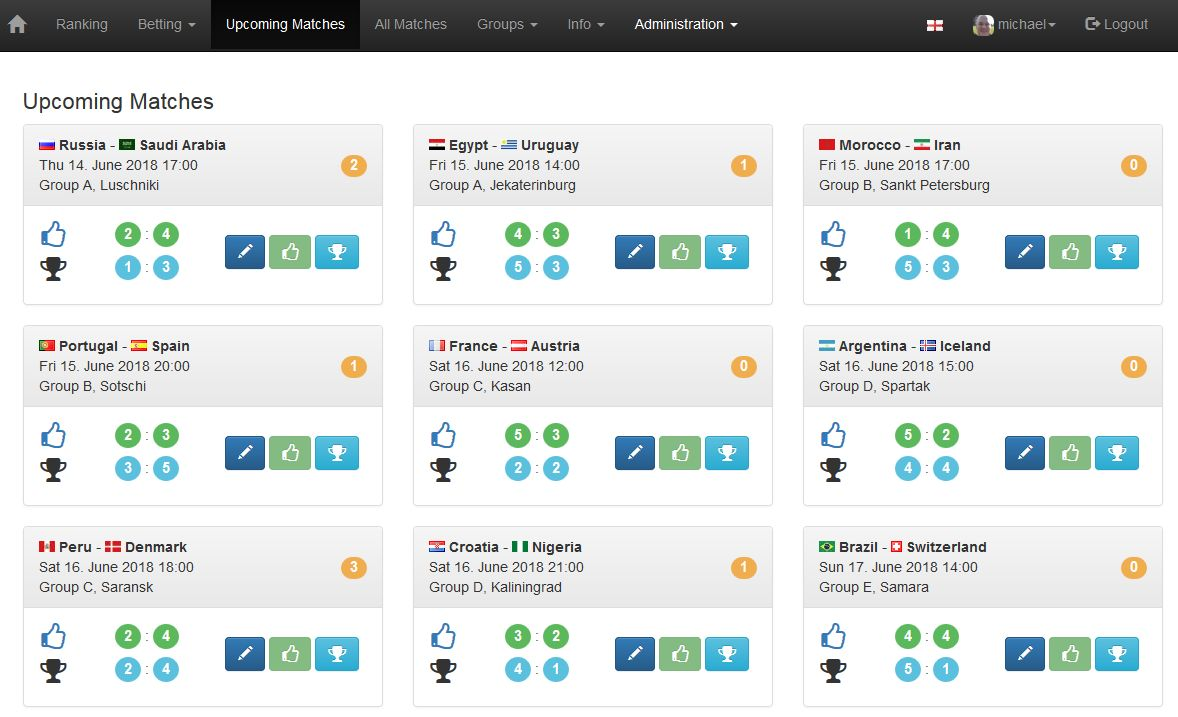
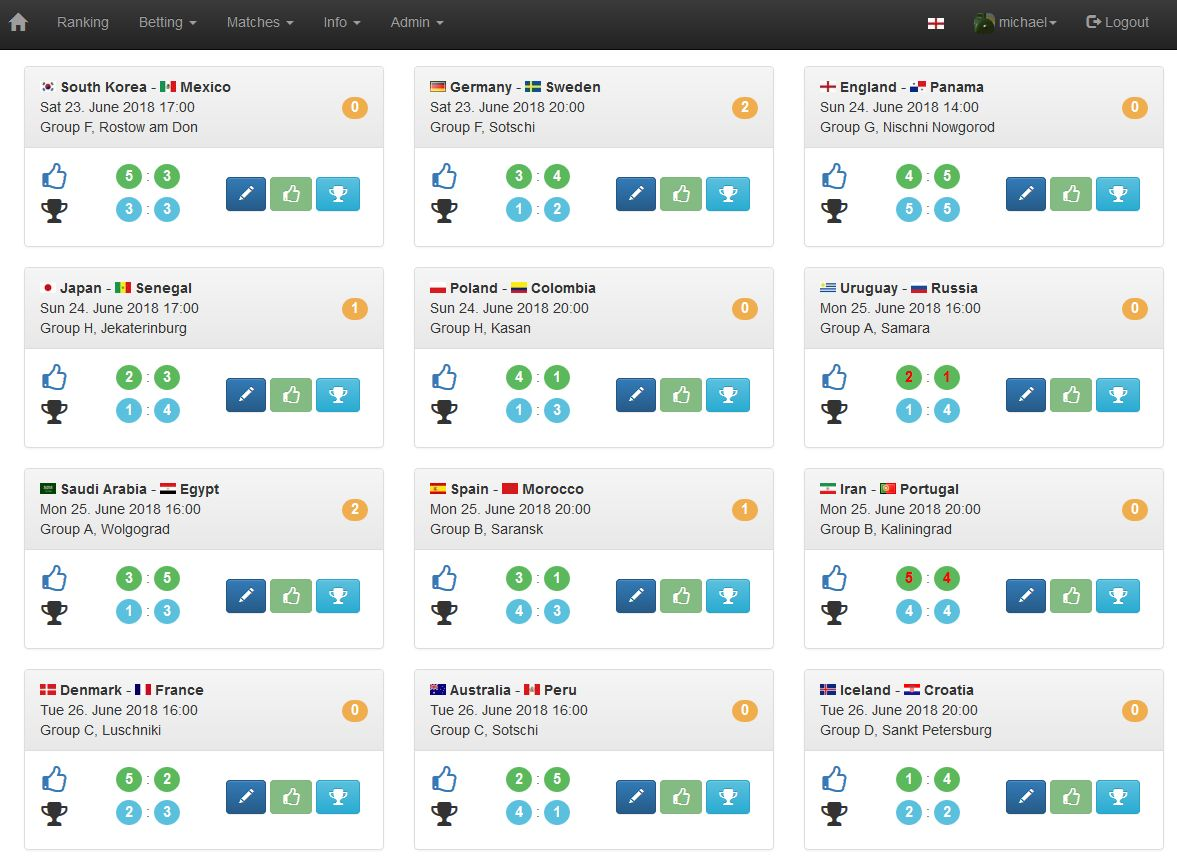
updated screenshots

diff --git a/README.md b/README.md
@@ -155,9 +155,13 @@ You can call this URL for a health check:
 
 You will see a response of `{"status":"UP"}`. The health check URL is callable without authentication.
 
-## Screenshot
+## Screenshots
 
-![FredBet Screenshot](src/docs/screenshot/Screenshot1.jpg?raw=true "FredBet Screenshot")
+![FredBet Screenshot 1](src/docs/screenshot/Screenshot1.jpg?raw=true "FredBet Screenshot 1")
+
+![FredBet Screenshot 2](src/docs/screenshot/Screenshot2.jpg?raw=true "FredBet Screenshot 2")
+
+![FredBet Screenshot 3](src/docs/screenshot/Screenshot3.jpg?raw=true "FredBet Screenshot 3")
 
 ## License
 
